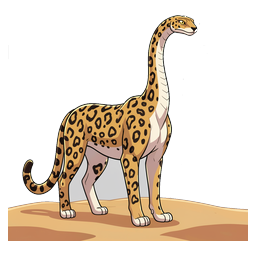
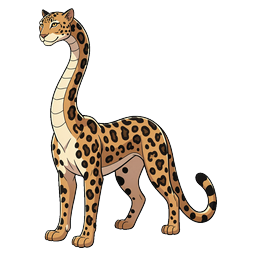
A hundred sprites, and the rodent I nearly deleted
All 100 rendered first pass, no failures. The alpha audit then caught six
with leaked backgrounds - where the model paints a bounded panel the
flood fill cannot reach, so the sprite looks right in a folder and wrong
the moment it is composited over anything. The cause was in my own
prompts: four of the six named trees, so the model painted a forest.
Rewritten without scenery and re-rendered; all six now sit at 19% median
coverage, squarely in the clean band. Final audit across all hundred: no
leaks, none even worth a look.

THE PATAGONIAN MARA.

I gave the Norse nightmare-spirit the key `mara`. `mara` is the
Patagonian Mara - a real rodent, with its own drawing, its own field note
and a place in two encounter pools. Object.assign overwrote the species,
INFO overwrote its note, and the art pipeline then overwrote its sprite.
Nothing anywhere complained.

It surfaced only because the key turned up as ALREADY PRESENT in
PHOTO_ART when the new sprites were being wired in. That is luck, not
process, and it is the whole reason this commit message is long.

Fixed: the rodent's artwork restored from git, the spirit renamed to
`nightmara` through the species table, its rift placement and PHOTO_ART,
and re-rendered under the new key. part95 now captures the roster BEFORE
it touches it and names anything it would overwrite - the check that was
already in that file only looked for duplicates within the new hundred,
which is precisely the check that could not see this.
[…]

diff --git a/game.part95.jsx b/game.part95.jsx
@@ -381,7 +381,7 @@ const M2 = [
     "Omnivore — porridge, with butter on it",
     "Scandinavian farms, in the barn",
     "He guards the farm and the animals, and he requires porridge on Christmas Eve with the butter ON TOP. A farmhand who ate the butter first was killed for it in more than one telling. Of all the small gods in this guide, the one with the strictest position on dairy."],
-  ["mara", "Mara", "fairy", "Night", [50, 62, 46, 72], MV.night, 0.2, "Norse",
+  ["nightmara", "Mara", "fairy", "Night", [50, 62, 46, 72], MV.night, 0.2, "Norse",
     "Carnivore — breath, and rest",
     "Northern Europe, on the sleeper's chest",
     "She sits on you in the night so you cannot move or breathe, and rides horses to exhaustion. This is sleep paralysis again - the third time it appears in this guide under three unconnected names - and it is where the word nightmare comes from. Not a bad dream: a specific creature, sitting on you."],
@@ -502,6 +502,24 @@ const M2 = [
    spelled differently in the two places - a whole class of creature that exists
    with no field note and never complains. One row cannot disagree with
    itself. */
+/* WHAT WAS IN THE ROSTER BEFORE THIS FILE TOUCHED IT.
+
+   Captured here rather than checked afterwards, because Object.assign is
+   silent: a key that already exists is overwritten with no error and no
+   warning, and the species that was there is simply gone.
+
+   THIS IS NOT HYPOTHETICAL. The first version of this file gave the Norse
+   nightmare-spirit the key `mara`, and `mara` is the Patagonian Mara - a real
+   rodent with its own artwork, its own field note and a place in two encounter
+   pools. It was overwritten, and the art pipeline then overwrote its sprite
+   too. Nothing complained. It was found only because the sprite key turned up
+   in PHOTO_ART already.
+
+   Ayr's standing rule is that a species they may already have caught must never
+   be cut. Silently replacing one is worse than cutting it, so this now fails
+   loudly. */
+const M2_BEFORE = new Set(Object.keys(DEX));
+
 Object.assign(DEX, M2.reduce((out, r) => {
   const [k, n, art, t2, b, m, c, org] = r;
   out[k] = { n, art, t: ["Mythic", t2], b: { h: b[0], a: b[1], d: b[2], s: b[3] }, m, l: [], c, org };
@@ -523,6 +541,8 @@ M2.forEach(([k, , , , , , , , diet, where, note]) => {
 {
   const keys = M2.map((r) => r[0]);
   const dupes = keys.filter((k, i) => keys.indexOf(k) !== i);
+  // The one that actually bit: a key the roster was already using.
+  const stole = keys.filter((k) => M2_BEFORE.has(k));
   const noArt = [...new Set(M2.map((r) => r[2]).filter((a) => !ART[a]))];
   const noMove = [...new Set(M2.flatMap((r) => r[5]).filter((mv) => !MOVES[mv]))];
   const noNote = keys.filter((k) => !INFO[k] || !INFO[k].f);
@@ -534,6 +554,7 @@ M2.forEach(([k, , , , , , , , diet, where, note]) => {
   console.log("[part95] the second hundred: " + M2.length + " added across "
     + Object.keys(orgs).length + " cultures | myths in the guide now: " + mythTotal
     + " | sprites still to render: " + M2.filter((r) => !(typeof PHOTO_ART !== "undefined" && PHOTO_ART[r[0]])).length
+    + (stole.length ? " | OVERWROTE AN EXISTING SPECIES: " + stole.join(", ") : "")
     + (dupes.length ? " | DUPLICATE KEY: " + dupes.join(", ") : "")
     + (noArt.length ? " | NO SUCH ART: " + noArt.join(", ") : "")
     + (noMove.length ? " | NO SUCH MOVE: " + noMove.join(", ") : "")

diff --git a/game.part2.jsx b/game.part2.jsx
@@ -339,6 +339,111 @@ const ART = {
 // identically whether there is one photo in here or nine hundred. Add a file to
 // art/ and a line here, and that species switches over. Nothing else changes.
 const PHOTO_ART = {
+  /* The second hundred myths (part95). Rendered 2026-09-10 through the
+     Scrying Glass pipeline; six were re-rendered after the alpha audit
+     caught leaked backgrounds, which is what that audit is for. Until a
+     key appears here the species draws its nearest-shaped fallback, so
+     adding a line is the whole of switching a sprite on. */
+  "abiku": true,
+  "adze": true,
+  "agropelter": true,
+  "akualele": true,
+  "amarok": true,
+  "amikuk": true,
+  "asanbosam": true,
+  "ashiaraiyashiki": true,
+  "babayagahut": true,
+  "baize": true,
+  "bannik": true,
+  "basajaun": true,
+  "berberoka": true,
+  "betobetosan": true,
+  "blackshuck": true,
+  "boggart": true,
+  "boitata": true,
+  "bulgasari": true,
+  "bultungin": true,
+  "bungisngis": true,
+  "camahueto": true,
+  "centaur": true,
+  "chullachaqui": true,
+  "curupira": true,
+  "cwnannwn": true,
+  "dakuwaqa": true,
+  "dokkaebi": true,
+  "domovoi": true,
+  "douen": true,
+  "draugr": true,
+  "dullahan": true,
+  "eloko": true,
+  "fossegrim": true,
+  "gashadokuro": true,
+  "ghul": true,
+  "golem": true,
+  "gorgon": true,
+  "gumiho": true,
+  "hidebehind": true,
+  "huakaipo": true,
+  "huldra": true,
+  "huma": true,
+  "ifrit": true,
+  "ijiraq": true,
+  "ilomba": true,
+  "jengu": true,
+  "jerseydevil": true,
+  "jiangshi": true,
+  "jorogumo": true,
+  "kamapuaa": true,
+  "kamuyhuci": true,
+  "kapre": true,
+  "kasaobake": true,
+  "knocker": true,
+  "korpokkur": true,
+  "lamiak": true,
+  "likho": true,
+  "lilith": true,
+  "lusca": true,
+  "manananggal": true,
+  "mapinguari": true,
+  "marakihau": true,
+  "medjed": true,
+  "menehune": true,
+  "namazu": true,
+  "nightmara": true,
+  "nanaue": true,
+  "nasnas": true,
+  "nisse": true,
+  "nurikabe": true,
+  "nyaminyami": true,
+  "obayifo": true,
+  "olgoikhorkhoi": true,
+  "para": true,
+  "patupaiarehe": true,
+  "penghou": true,
+  "pincoya": true,
+  "ponaturi": true,
+  "pouakai": true,
+  "qalupalik": true,
+  "redcap": true,
+  "rusalka": true,
+  "serpopard": true,
+  "shahmaran": true,
+  "snallygaster": true,
+  "soucouyant": true,
+  "squonk": true,
+  "stallo": true,
+  "tartalo": true,
+  "teakettler": true,
+  "tipua": true,
+  "tiyanak": true,
+  "tokoloshe": true,
+  "tupilaq": true,
+  "veli": true,
+  "vodyanoy": true,
+  "xiezhi": true,
+  "yukionna": true,
+  "yumboe": true,
+  "zduhac": true,
   "aardvark": true,
   "aardwolf": true,
   "abyssiniancat": true,

diff --git a/game.part96.jsx b/game.part96.jsx
@@ -42,7 +42,7 @@ const DEEP2 = [
 
   { k: "rift13", n: "What the Ice Takes", lvl: [60, 65], prev: { map: "rift12", x: 7, y: 1 }, next: "rift14",
     sign: "🪧 'WHAT THE ICE TAKES — the far north has the most practical monsters on earth. Nearly every one of them is standing exactly where the ground is thin, the light is flat, or a person alone is about to make a mistake.'",
-    who: ["qalupalik", "amarok", "ijiraq", "amikuk", "tupilaq", "stallo", "yukionna", "huldra", "draugr", "fossegrim", "mara", "kamuyhuci", "tokoloshe", "zduhac"] },
+    who: ["qalupalik", "amarok", "ijiraq", "amikuk", "tupilaq", "stallo", "yukionna", "huldra", "draugr", "fossegrim", "nightmara", "kamuyhuci", "tokoloshe", "zduhac"] },
 
   { k: "rift14", n: "The Unburied", lvl: [61, 65], prev: { map: "rift13", x: 7, y: 1 }, next: "rift15",
     sign: "🪧 'THE UNBURIED — a body without rites becomes a problem, and four continents came to the same answer independently. What is feared is never the death. It is the part that was left undone afterwards.'",
